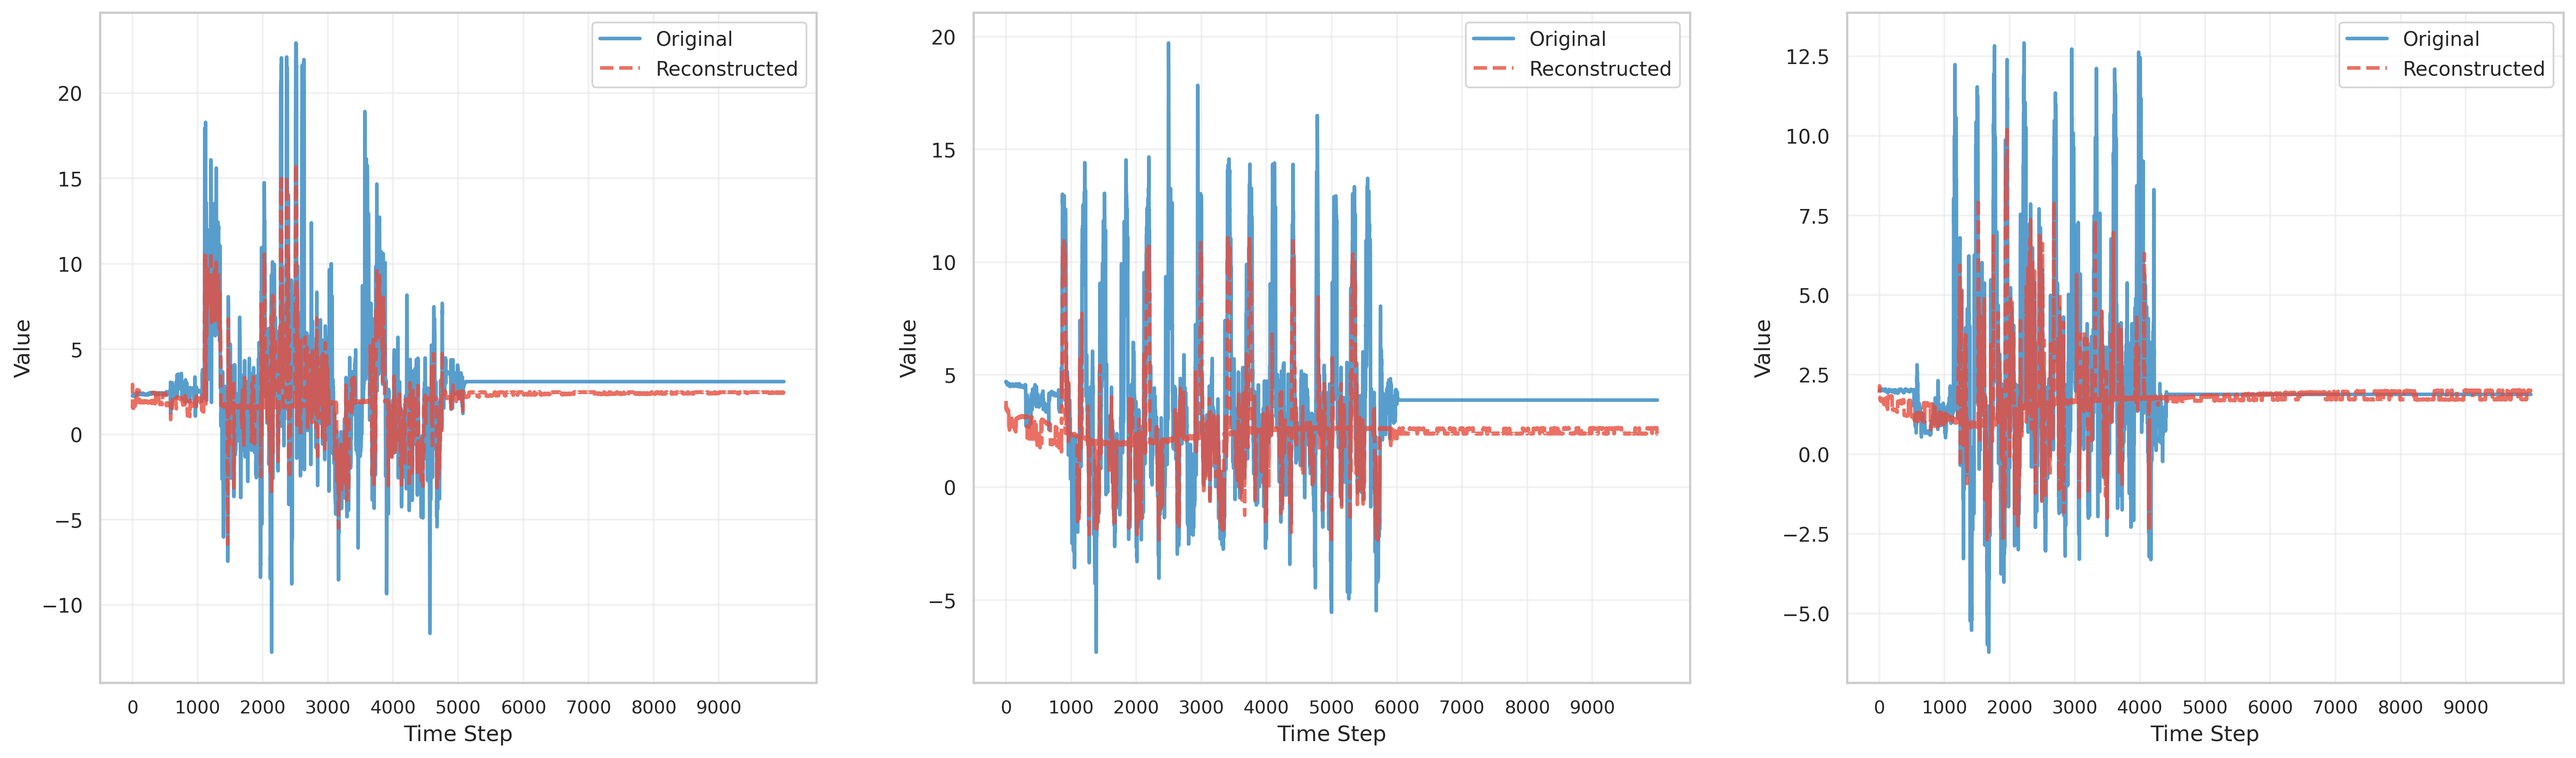
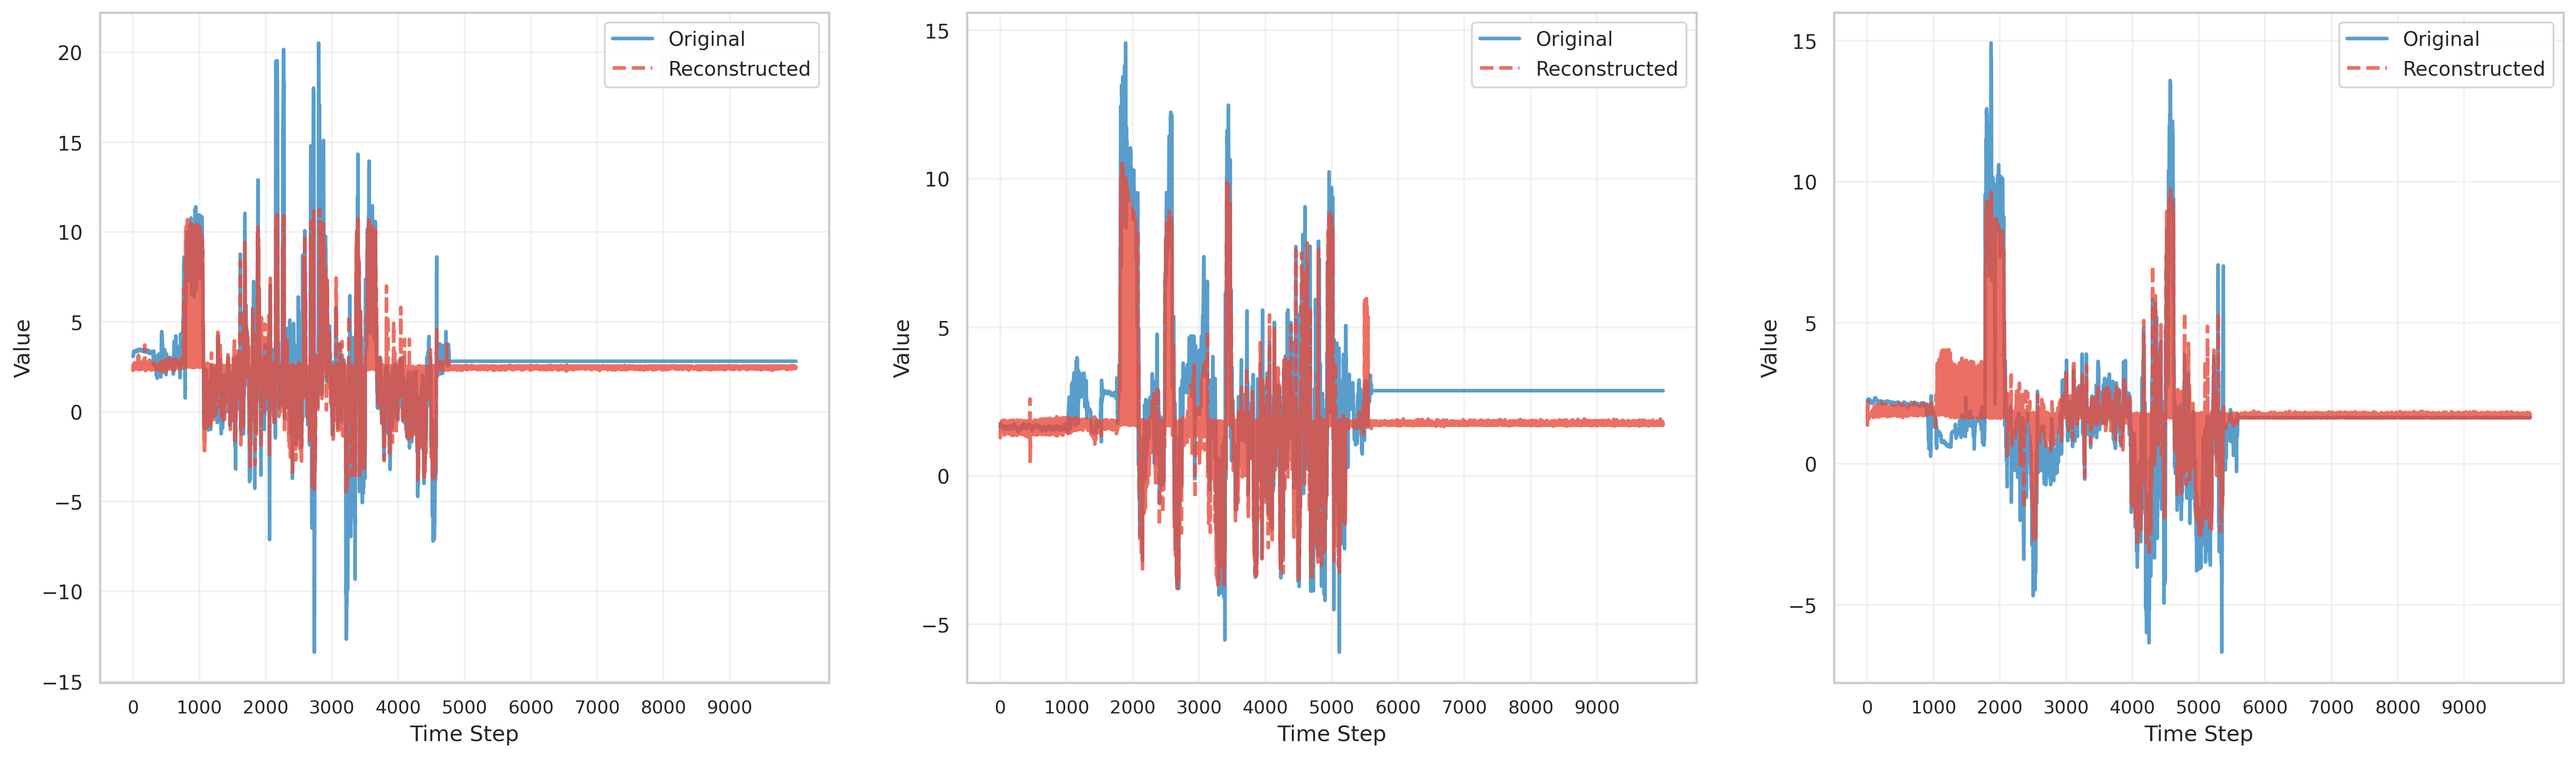
add dervied col experiment

diff --git a/ngafid_datasets/local_flight_dataset.py b/ngafid_datasets/local_flight_dataset.py
@@ -210,7 +210,7 @@ class LocalFlightDataset(IterableDataset):
             try:
                 # Read CSV file
                 df = pd.read_csv(csv_file, na_values=[' NaN', 'NaN', 'NaN ', 'nan'])
-                df = df.drop(columns=DERVIED_COLS)
+                # df = df.drop(columns=DERVIED_COLS)
 
                 # Select only numeric columns
                 numeric_cols = df.select_dtypes(include=[np.number]).columns
@@ -351,7 +351,7 @@ def get_feature_dim_from_local_data(data_dir: str) -> Optional[int]:
     for csv_file in csv_files[:5]:
         try:
             df = pd.read_csv(csv_file, na_values=[' NaN', 'NaN', 'NaN ', 'nan'])
-            df = df.drop(columns=DERVIED_COLS)
+            # df = df.drop(columns=DERVIED_COLS)
 
             # Skip files that look like metadata (very few rows)
             if len(df) < 10:

diff --git a/drop_der_cols.py b/drop_der_cols.py
@@ -1,0 +1,13 @@
+import os
+import sys
+import pandas as pd
+
+DERVIED_COLS = ['stallindex', 'aoasimple', 'densityratio', 'trueairspeed(ft/min)', 'vspdcalculated']
+
+for subdir in ['test', 'train', 'val']:
+    for csv_file in os.listdir(os.path.join(sys.argv[1], subdir)):
+        file = os.path.join(sys.argv[1], subdir, csv_file)
+        df = pd.read_csv(file)
+        df = df.drop(columns=DERVIED_COLS)
+        df.to_csv(file)
+        print(f'Done with {file}')

diff --git a/ngafid_datasets/forecast_flight_dataset.py b/ngafid_datasets/forecast_flight_dataset.py
@@ -303,7 +303,7 @@ class ForecastFlightDataset(IterableDataset):
             try:
                 # Read CSV file
                 df = pd.read_csv(csv_file, na_values=[' NaN', 'NaN', 'NaN ', 'nan'])
-                df = df.drop(columns=DERVIED_COLS)
+                # df = df.drop(columns=DERVIED_COLS)
 
                 # Select only numeric columns
                 numeric_cols = df.select_dtypes(include=[np.number]).columns
